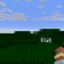
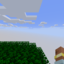
- Grass is now the same color everywhere. - Plains now has dark oak bushes instead of azalea. - Oak leaves are now default-colored instead of limey.

diff --git a/src/main/java/com/Apothic0n/Hydrological/api/HydrolColorHelper.java b/src/main/java/com/Apothic0n/Hydrological/api/HydrolColorHelper.java
@@ -13,18 +13,11 @@ public class HydrolColorHelper {
     @Unique
     public static final PerlinSimplexNoise BRIGHTNESS_NOISE = new PerlinSimplexNoise(new WorldgenRandom(new LegacyRandomSource(5432L)), ImmutableList.of(0));
 
-    public static int tintFoliageOrGrass(int x, int y, int z, double temperature) {
-        double brighten = Mth.clamp(BRIGHTNESS_NOISE.getValue(x * 0.05, z * 0.01, false), -0.25, 0.25)+0.5;
-        float darken = (float) (Math.max(-0.45, Math.min(-0.4, temperature) + 0.4) / 2);
-        float red = (float) (0.0);
-        float green = (float) (0.55) + darken;
-        float blue = (float) (0.33) + darken;
-        float gray = (float) ((red+green+blue)/(3+brighten));
-        float height = (384f/(y+64))*10;
-        double saturate = -(Mth.clamp(NoiseCoverPlacement.HEIGHT_NOISE.getValue((x+height) * 0.05, (z+height) * 0.01, false) * 0.4, -0.4, 0.4)+0.5);
-        red = (float) Mth.clamp(red + (gray - red) * saturate, 0.1, 1);
-        green = (float) Mth.clamp(green + (gray - green) * saturate, 0.1, 1);
-        blue = (float) Mth.clamp(blue + (gray - blue) * saturate, 0.1, 1);
-        return FastColor.ARGB32.color(1, (int) (red*255), (int) (green*255), (int) (blue*255));
+    public static int tintFoliageOrGrass(int x, int y, int z) {
+        float brighten = (float)((BRIGHTNESS_NOISE.getValue(x * 0.05, z * 0.01, false)*0.125f)+1f);
+        float red = 0.2f*brighten;
+        float green = 0.6f*brighten;
+        float blue = 0f*brighten;
+        return FastColor.ARGB32.colorFromFloat(1.f, red, green, blue);
     }
 }

diff --git a/src/main/java/com/Apothic0n/Hydrological/mixin/BiomeSpecialEffectsGrassMixin.java b/src/main/java/com/Apothic0n/Hydrological/mixin/BiomeSpecialEffectsGrassMixin.java
@@ -1,9 +1,6 @@
 package com.Apothic0n.Hydrological.mixin;
 
-import com.Apothic0n.Hydrological.api.HydrolDensityFunctions;
 import com.Apothic0n.Hydrological.api.HydrolColorHelper;
-import net.minecraft.world.level.block.Blocks;
-import net.minecraft.world.level.levelgen.DensityFunction;
 import org.spongepowered.asm.mixin.Mixin;
 import org.spongepowered.asm.mixin.injection.At;
 import org.spongepowered.asm.mixin.injection.Inject;
@@ -18,8 +15,6 @@ public class BiomeSpecialEffectsGrassMixin {
      */
     @Inject(at = @At("RETURN"), method = "modifyColor", cancellable = true)
     private void modifyColor(double x, double z, int unusedColor, CallbackInfoReturnable<Integer> cir) {
-        if (HydrolDensityFunctions.temperature != null) {
-            cir.setReturnValue(HydrolColorHelper.tintFoliageOrGrass((int) x, 0, (int) z, HydrolDensityFunctions.temperature.compute(new DensityFunction.SinglePointContext((int) x, 0, (int) z))));
-        }
+        cir.setReturnValue(HydrolColorHelper.tintFoliageOrGrass((int) x, 0, (int) z));
     }
 }
